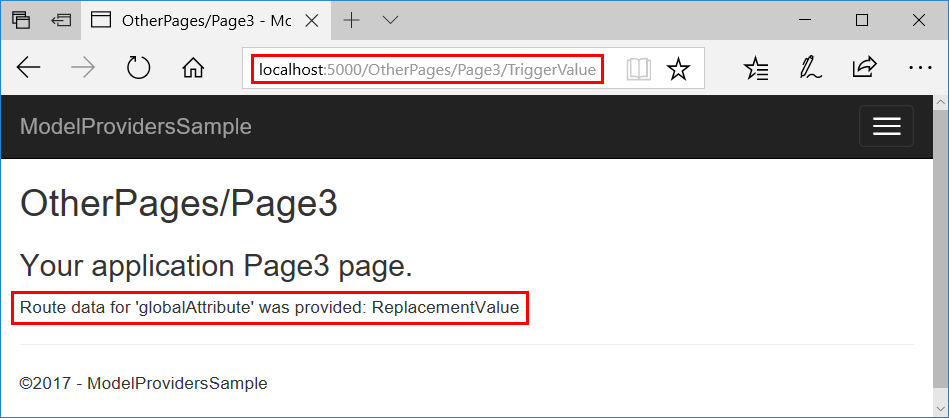
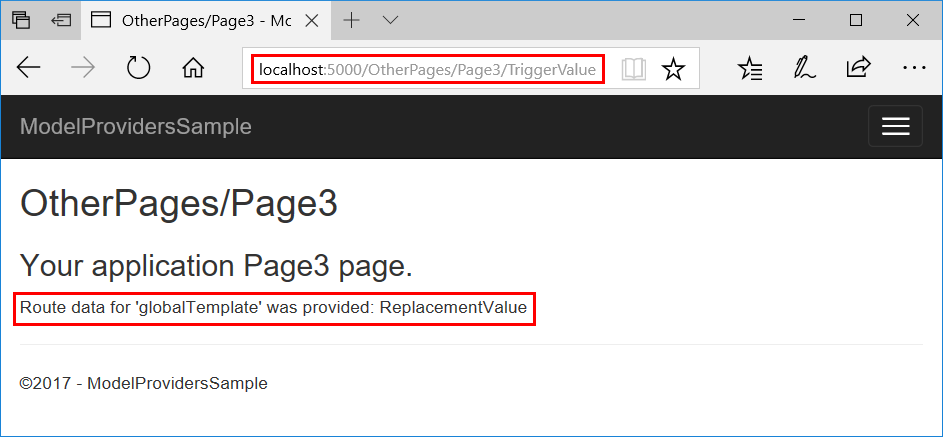
React to feedback

diff --git a/aspnetcore/mvc/razor-pages/razor-pages-convention-features/sample/Pages/OtherPages/Page1.cshtml.cs b/aspnetcore/mvc/razor-pages/razor-pages-convention-features/sample/Pages/OtherPages/Page1.cshtml.cs
@@ -11,23 +11,23 @@ namespace ModelProvidersSample.Pages.OtherPages
     {
         public string Message { get; private set; }
 
-        public string RouteDataGlobalAttribute { get; private set; }
+        public string RouteDataGlobalTemplateValue { get; private set; }
 
-        public string RouteDataOtherPagesAttribute { get; private set; }
+        public string RouteDataOtherPagesTemplateValue { get; private set; }
 
         public void Get()
         {
             Message = "Your application Page1 page.";
 
             #region snippet1
-            if (RouteData.Values["globalAttribute"] != null)
+            if (RouteData.Values["globalTemplate"] != null)
             {
-                RouteDataGlobalAttribute = $"Route data for 'globalAttribute' was provided: {RouteData.Values["globalAttribute"]}";
+                RouteDataGlobalTemplateValue = $"Route data for 'globalTemplate' was provided: {RouteData.Values["globalTemplate"]}";
             }
 
-            if (RouteData.Values["otherPagesAttribute"] != null)
+            if (RouteData.Values["otherPagesTemplate"] != null)
             {
-                RouteDataOtherPagesAttribute = $"Route data for 'otherPagesAttribute' was provided: {RouteData.Values["otherPagesAttribute"]}";
+                RouteDataOtherPagesTemplateValue = $"Route data for 'otherPagesTemplate' was provided: {RouteData.Values["otherPagesTemplate"]}";
             }
             #endregion
         }

diff --git a/aspnetcore/mvc/razor-pages/razor-pages-convention-features/sample/Pages/About.cshtml.cs b/aspnetcore/mvc/razor-pages/razor-pages-convention-features/sample/Pages/About.cshtml.cs
@@ -11,25 +11,25 @@ namespace ModelProvidersSample.Pages
     {
         public string Message { get; private set; }
 
-        public string RouteDataGlobalAttribute { get; private set; }
+        public string RouteDataGlobalTemplateValue { get; private set; }
 
-        public string RouteDataAboutAttribute { get; private set; }
+        public string RouteDataAboutTemplateValue { get; private set; }
 
         public void Get()
         {
             Message = "Your application description page.";
 
             #region snippet1
-            if (RouteData.Values["globalAttribute"] != null)
+            if (RouteData.Values["globalTemplate"] != null)
             {
-                RouteDataGlobalAttribute = $"Route data for 'globalAttribute' was provided: {RouteData.Values["globalAttribute"]}";
+                RouteDataGlobalTemplateValue = $"Route data for 'globalTemplate' was provided: {RouteData.Values["globalTemplate"]}";
             }
             #endregion
 
             #region snippet2
-            if (RouteData.Values["aboutAttribute"] != null)
+            if (RouteData.Values["aboutTemplate"] != null)
             {
-                RouteDataAboutAttribute = $"Route data for 'aboutAttribute' was provided: {RouteData.Values["aboutAttribute"]}";
+                RouteDataAboutTemplateValue = $"Route data for 'aboutTemplate' was provided: {RouteData.Values["aboutTemplate"]}";
             }
             #endregion
         }

diff --git a/aspnetcore/mvc/razor-pages/razor-pages-convention-features/sample/Pages/OtherPages/Page2.cshtml.cs b/aspnetcore/mvc/razor-pages/razor-pages-convention-features/sample/Pages/OtherPages/Page2.cshtml.cs
@@ -11,22 +11,22 @@ namespace ModelProvidersSample.Pages.OtherPages
     {
         public string Message { get; private set; }
 
-        public string RouteDataGlobalAttribute { get; private set; }
+        public string RouteDataGlobalTemplateValue { get; private set; }
 
-        public string RouteDataOtherPagesAttribute { get; private set; }
+        public string RouteDataOtherPagesTemplateValue { get; private set; }
 
         public void Get()
         {
             Message = "Your application Page2 page.";
 
-            if (RouteData.Values["globalAttribute"] != null)
+            if (RouteData.Values["globalTemplate"] != null)
             {
-                RouteDataGlobalAttribute = $"Route data for 'globalAttribute' was provided: {RouteData.Values["globalAttribute"]}";
+                RouteDataGlobalTemplateValue = $"Route data for 'globalTemplate' was provided: {RouteData.Values["globalTemplate"]}";
             }
 
-            if (RouteData.Values["otherPagesAttribute"] != null)
+            if (RouteData.Values["otherPagesTemplate"] != null)
             {
-                RouteDataOtherPagesAttribute = $"Route data for 'otherPagesAttribute' was provided: {RouteData.Values["otherPagesAttribute"]}";
+                RouteDataOtherPagesTemplateValue = $"Route data for 'otherPagesTemplate' was provided: {RouteData.Values["otherPagesTemplate"]}";
             }
         }
     }

diff --git a/aspnetcore/mvc/razor-pages/razor-pages-convention-features/sample/Pages/OtherPages/Page3.cshtml.cs b/aspnetcore/mvc/razor-pages/razor-pages-convention-features/sample/Pages/OtherPages/Page3.cshtml.cs
@@ -12,22 +12,22 @@ namespace ModelProvidersSample.Pages.OtherPages
     {
         public string Message { get; private set; }
 
-        public string RouteDataGlobalAttribute { get; private set; }
+        public string RouteDataGlobalTemplateValue { get; private set; }
 
-        public string RouteDataOtherPagesAttribute { get; private set; }
+        public string RouteDataOtherPagesTemplateValue { get; private set; }
 
         public void Get()
         {
             Message = "Your application Page3 page.";
 
-            if (RouteData.Values["globalAttribute"] != null)
+            if (RouteData.Values["globalTemplate"] != null)
             {
-                RouteDataGlobalAttribute = $"Route data for 'globalAttribute' was provided: {RouteData.Values["globalAttribute"]}";
+                RouteDataGlobalTemplateValue = $"Route data for 'globalTemplate' was provided: {RouteData.Values["globalTemplate"]}";
             }
 
-            if (RouteData.Values["otherPagesAttribute"] != null)
+            if (RouteData.Values["otherPagesTemplate"] != null)
             {
-                RouteDataOtherPagesAttribute = $"Route data for 'otherPagesAttribute' was provided: {RouteData.Values["otherPagesAttribute"]}";
+                RouteDataOtherPagesTemplateValue = $"Route data for 'otherPagesTemplate' was provided: {RouteData.Values["otherPagesTemplate"]}";
             }
         }
     }

diff --git a/aspnetcore/mvc/razor-pages/razor-pages-convention-features/sample/Startup.cs b/aspnetcore/mvc/razor-pages/razor-pages-convention-features/sample/Startup.cs
@@ -24,7 +24,7 @@ namespace ModelProvidersSample
                 .AddRazorPagesOptions(options =>
                 {
                     #region snippet1
-                    options.Conventions.Add(new GlobalAttributePageRouteModelConvention());
+                    options.Conventions.Add(new GlobalTemplatePageRouteModelConvention());
                     #endregion
 
                     #region snippet2
@@ -45,7 +45,7 @@ namespace ModelProvidersSample
                                     Order = 1,
                                     Template = AttributeRouteModel.CombineTemplates(
                                         selector.AttributeRouteModel.Template, 
-                                        "{otherPagesAttribute?}"),
+                                        "{otherPagesTemplate?}"),
                                 }
                             });
                         }
@@ -66,7 +66,7 @@ namespace ModelProvidersSample
                                     Order = 1,
                                     Template = AttributeRouteModel.CombineTemplates(
                                         selector.AttributeRouteModel.Template, 
-                                        "{aboutAttribute?}"),
+                                        "{aboutTemplate?}"),
                                 }
                             });
                         }

diff --git a/aspnetcore/mvc/razor-pages/razor-pages-convention-features/sample/Filters/ReplaceRouteValueFilterAttribute.cs b/aspnetcore/mvc/razor-pages/razor-pages-convention-features/sample/Filters/ReplaceRouteValueFilterAttribute.cs
@@ -18,12 +18,12 @@ public class ReplaceRouteValueFilterAttribute : Attribute, IPageFilter
     public void OnPageHandlerSelected(PageHandlerSelectedContext context)
     {
         // Called after a handler method is selected but before model binding occurs.
-        context.RouteData.Values.TryGetValue("globalAttribute", 
-            out var globalAttributeValue);
-        if (string.Equals((string)globalAttributeValue, "TriggerValue", 
+        context.RouteData.Values.TryGetValue("globalTemplate", 
+            out var globalTemplateValue);
+        if (string.Equals((string)globalTemplateValue, "TriggerValue", 
             StringComparison.Ordinal))
         {
-            context.RouteData.Values["globalAttribute"] = "ReplacementValue";
+            context.RouteData.Values["globalTemplate"] = "ReplacementValue";
         }
     }
 }

diff --git a/aspnetcore/mvc/razor-pages/razor-pages-convention-features/sample/Conventions/GlobalTemplatePageRouteModelConvention.cs b/aspnetcore/mvc/razor-pages/razor-pages-convention-features/sample/Conventions/GlobalTemplatePageRouteModelConvention.cs
@@ -3,7 +3,7 @@ using Microsoft.AspNetCore.Mvc.ApplicationModels;
 namespace ModelProvidersSample.Conventions
 {
     #region snippet1
-    public class GlobalAttributePageRouteModelConvention 
+    public class GlobalTemplatePageRouteModelConvention 
         : IPageRouteModelConvention
     {
         public void Apply(PageRouteModel model)
@@ -19,7 +19,7 @@ namespace ModelProvidersSample.Conventions
                         Order = 0,
                         Template = AttributeRouteModel.CombineTemplates(
                             selector.AttributeRouteModel.Template, 
-                            "{globalAttribute?}"),
+                            "{globalTemplate?}"),
                     }
                 });
             }

diff --git a/aspnetcore/mvc/razor-pages/razor-pages-convention-features/sample/Pages/Contact.cshtml.cs b/aspnetcore/mvc/razor-pages/razor-pages-convention-features/sample/Pages/Contact.cshtml.cs
@@ -11,7 +11,7 @@ namespace ModelProvidersSample.Pages
     {
         public string Message { get; private set; }
 
-        public string RouteDataTextAttribute { get; private set; }
+        public string RouteDataTextTemplateValue { get; private set; }
 
         public void Get()
         {
@@ -19,7 +19,7 @@ namespace ModelProvidersSample.Pages
 
             if (RouteData.Values["text"] != null)
             {
-                RouteDataTextAttribute = $"Route data for 'text' was provided: {RouteData.Values["text"]}";
+                RouteDataTextTemplateValue = $"Route data for 'text' was provided: {RouteData.Values["text"]}";
             }
         }
     }

diff --git a/aspnetcore/mvc/razor-pages/razor-pages-convention-features/sample/Data/Message.cs b/aspnetcore/mvc/razor-pages/razor-pages-convention-features/sample/Data/Message.cs
@@ -5,5 +5,4 @@ namespace ModelProvidersSample.Data
         public int Id { get; set; }
         public string Text { get; set; }
     }
-
 }
